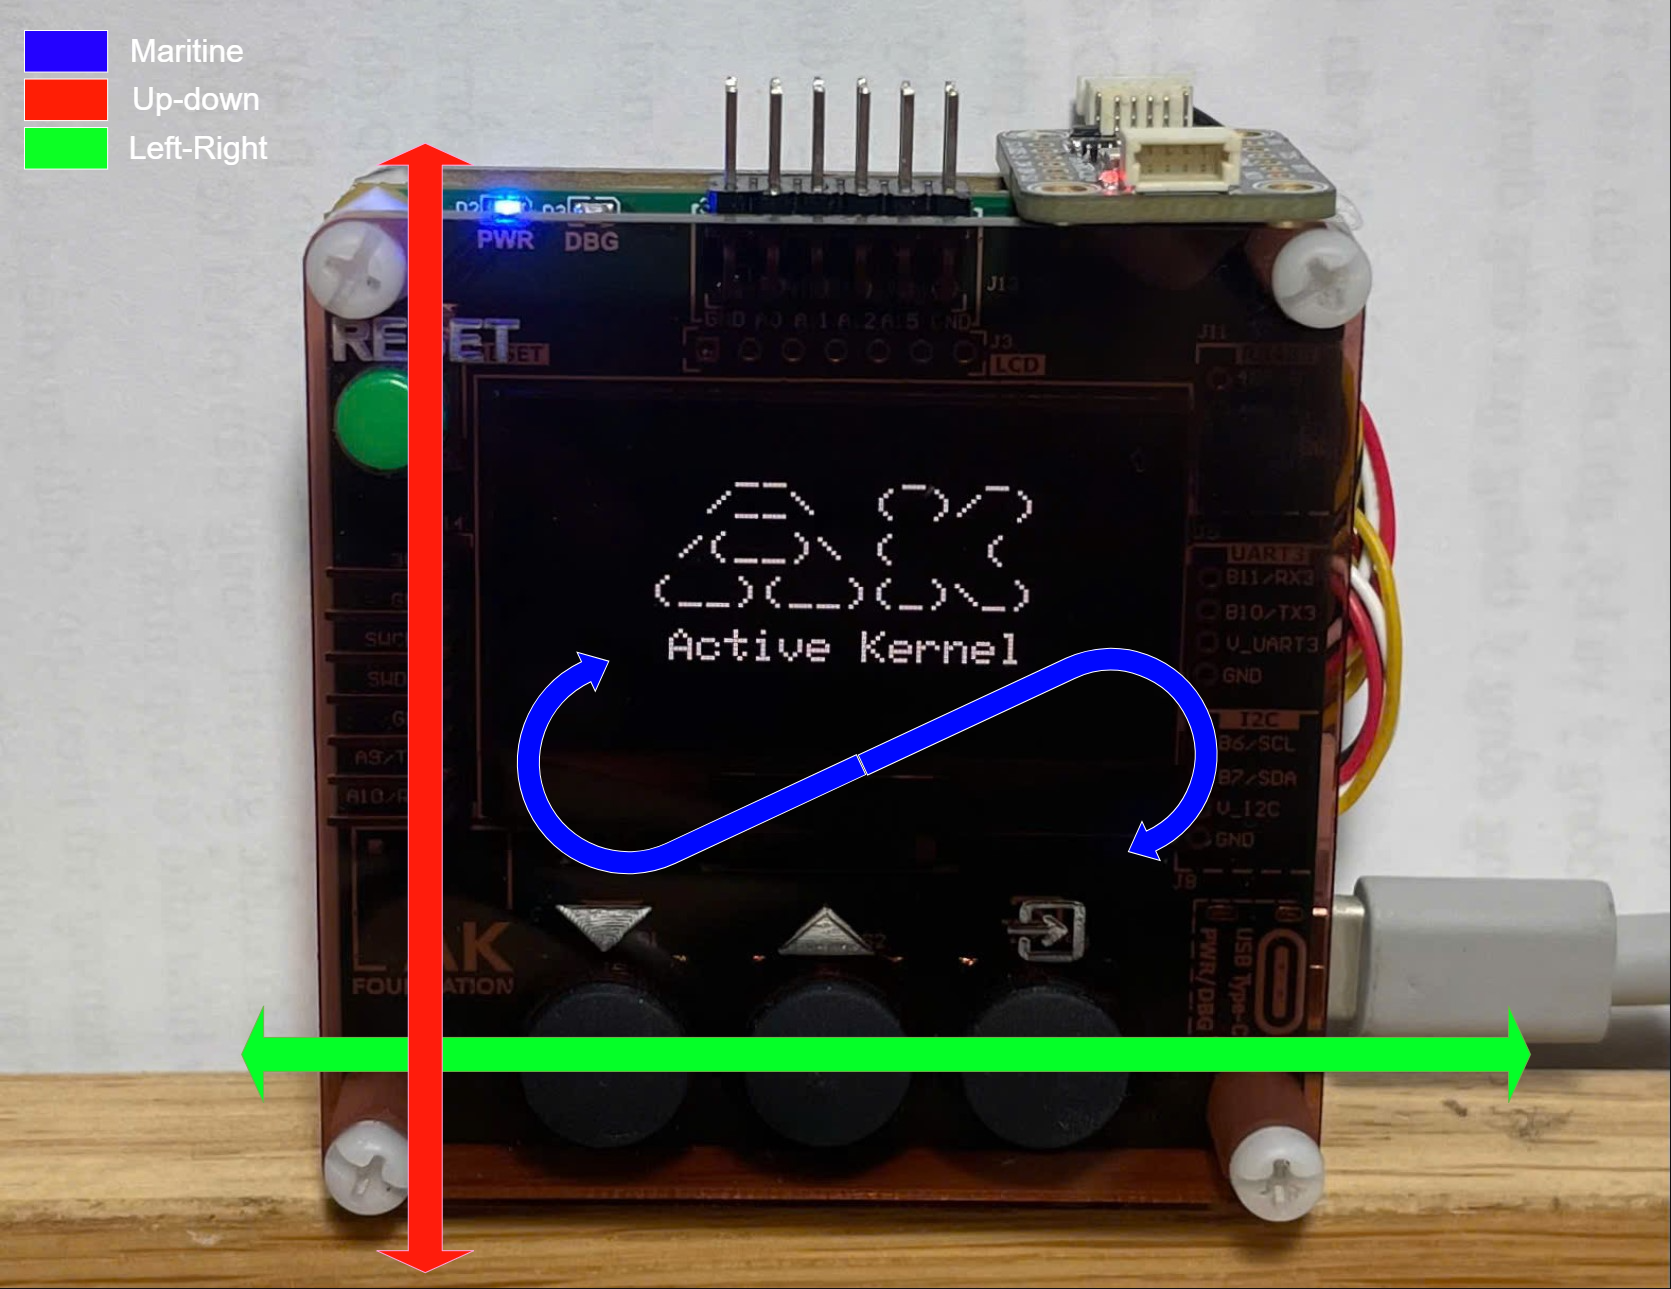
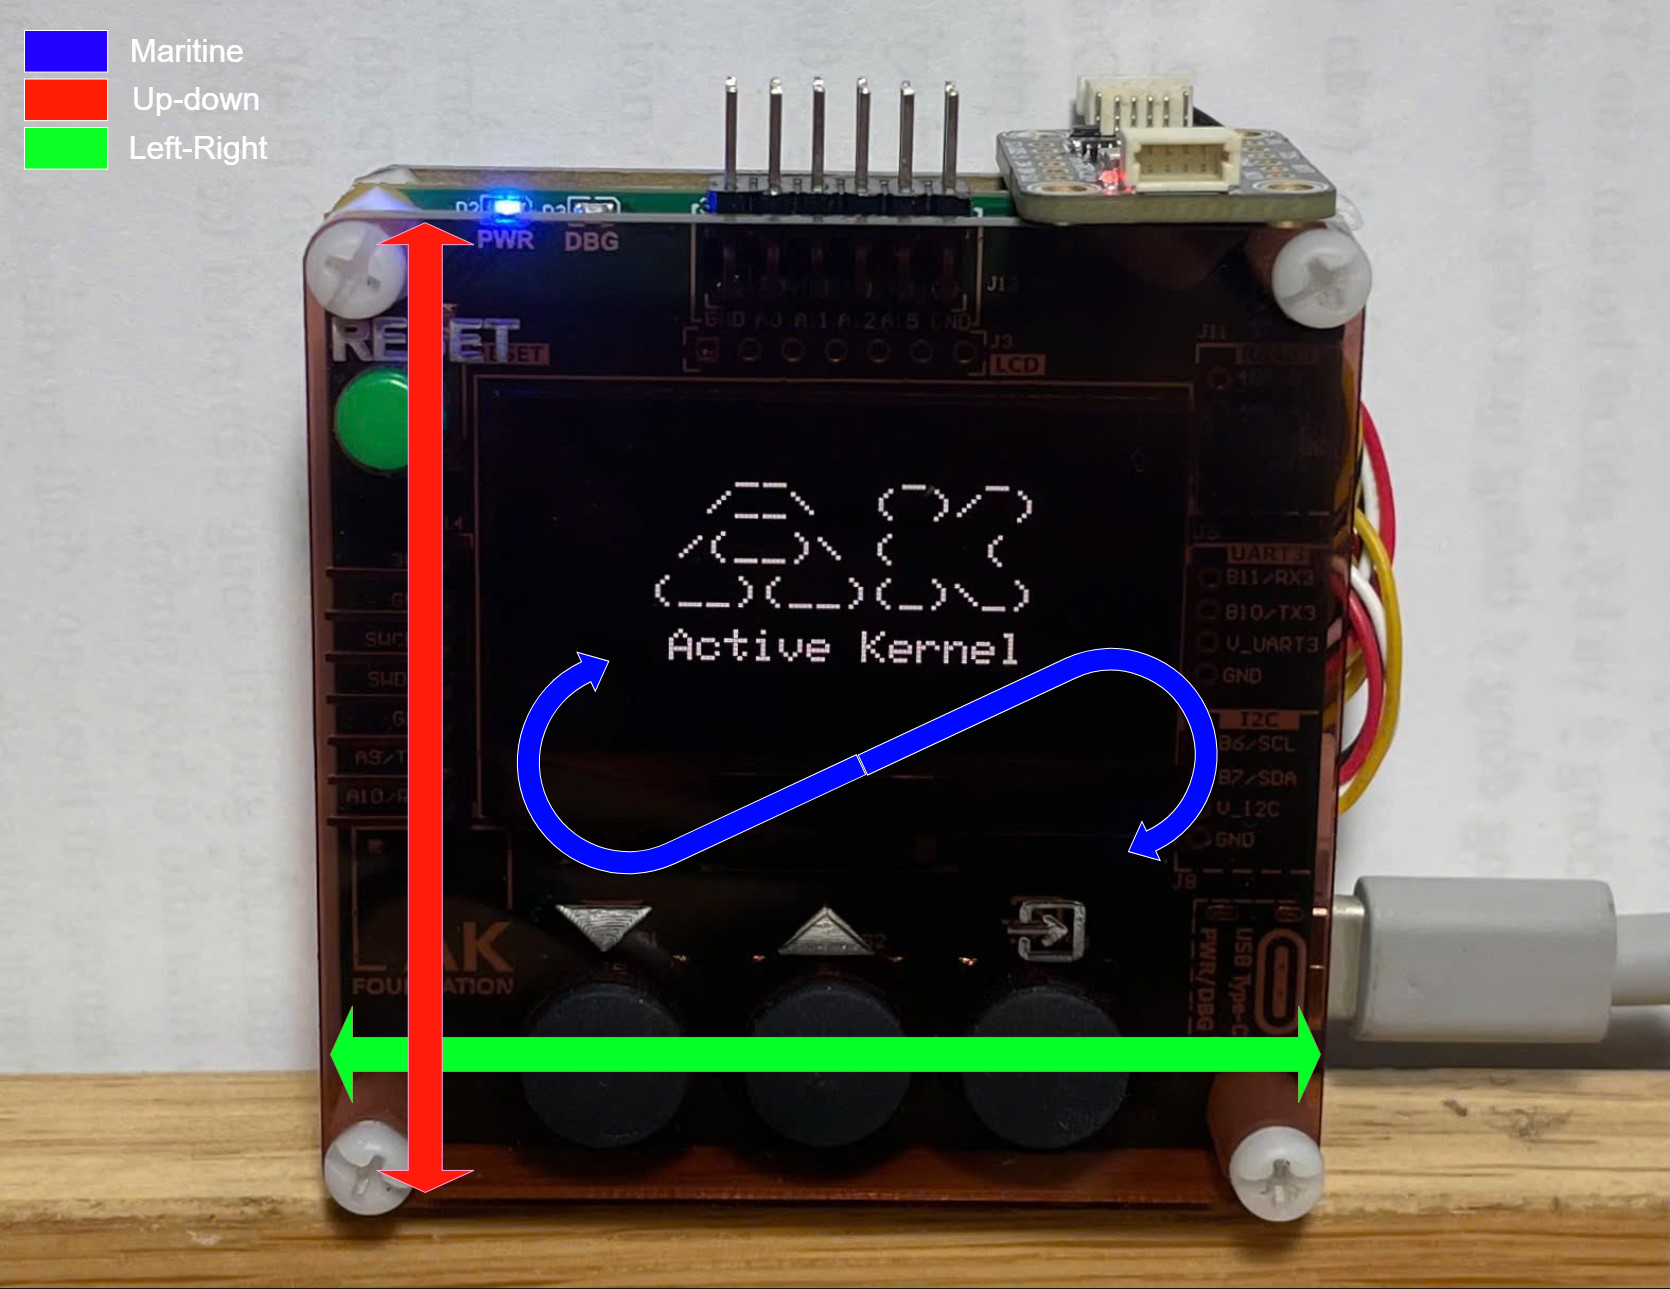
[ADD] update video demo to Readme

diff --git a/application/sources/app/nn/docs/Readme.md b/application/sources/app/nn/docs/Readme.md
@@ -183,15 +183,9 @@ sequenceDiagram
 
 **Figure 7:** Confusion matrix on validation set, showing per-class prediction accuracy
 
-## 8. Demo
+## 8. Video Demo
 
-<div align="center">
-
-[![Demo Video](image/demo.mp4)](image/demo.mp4)
-
-**Video:** Real-time anomaly detection demo - motion classification on STM32L151 + ICM-20948
-
-</div>
+[![Demo](image/title.png)](https://github.com/user-attachments/assets/3420db6c-671e-4b4b-a058-6ce20dbc7669)
 
 ### [Configuration parameters](../trainning/Anomaly-Detection.ipynb)
 